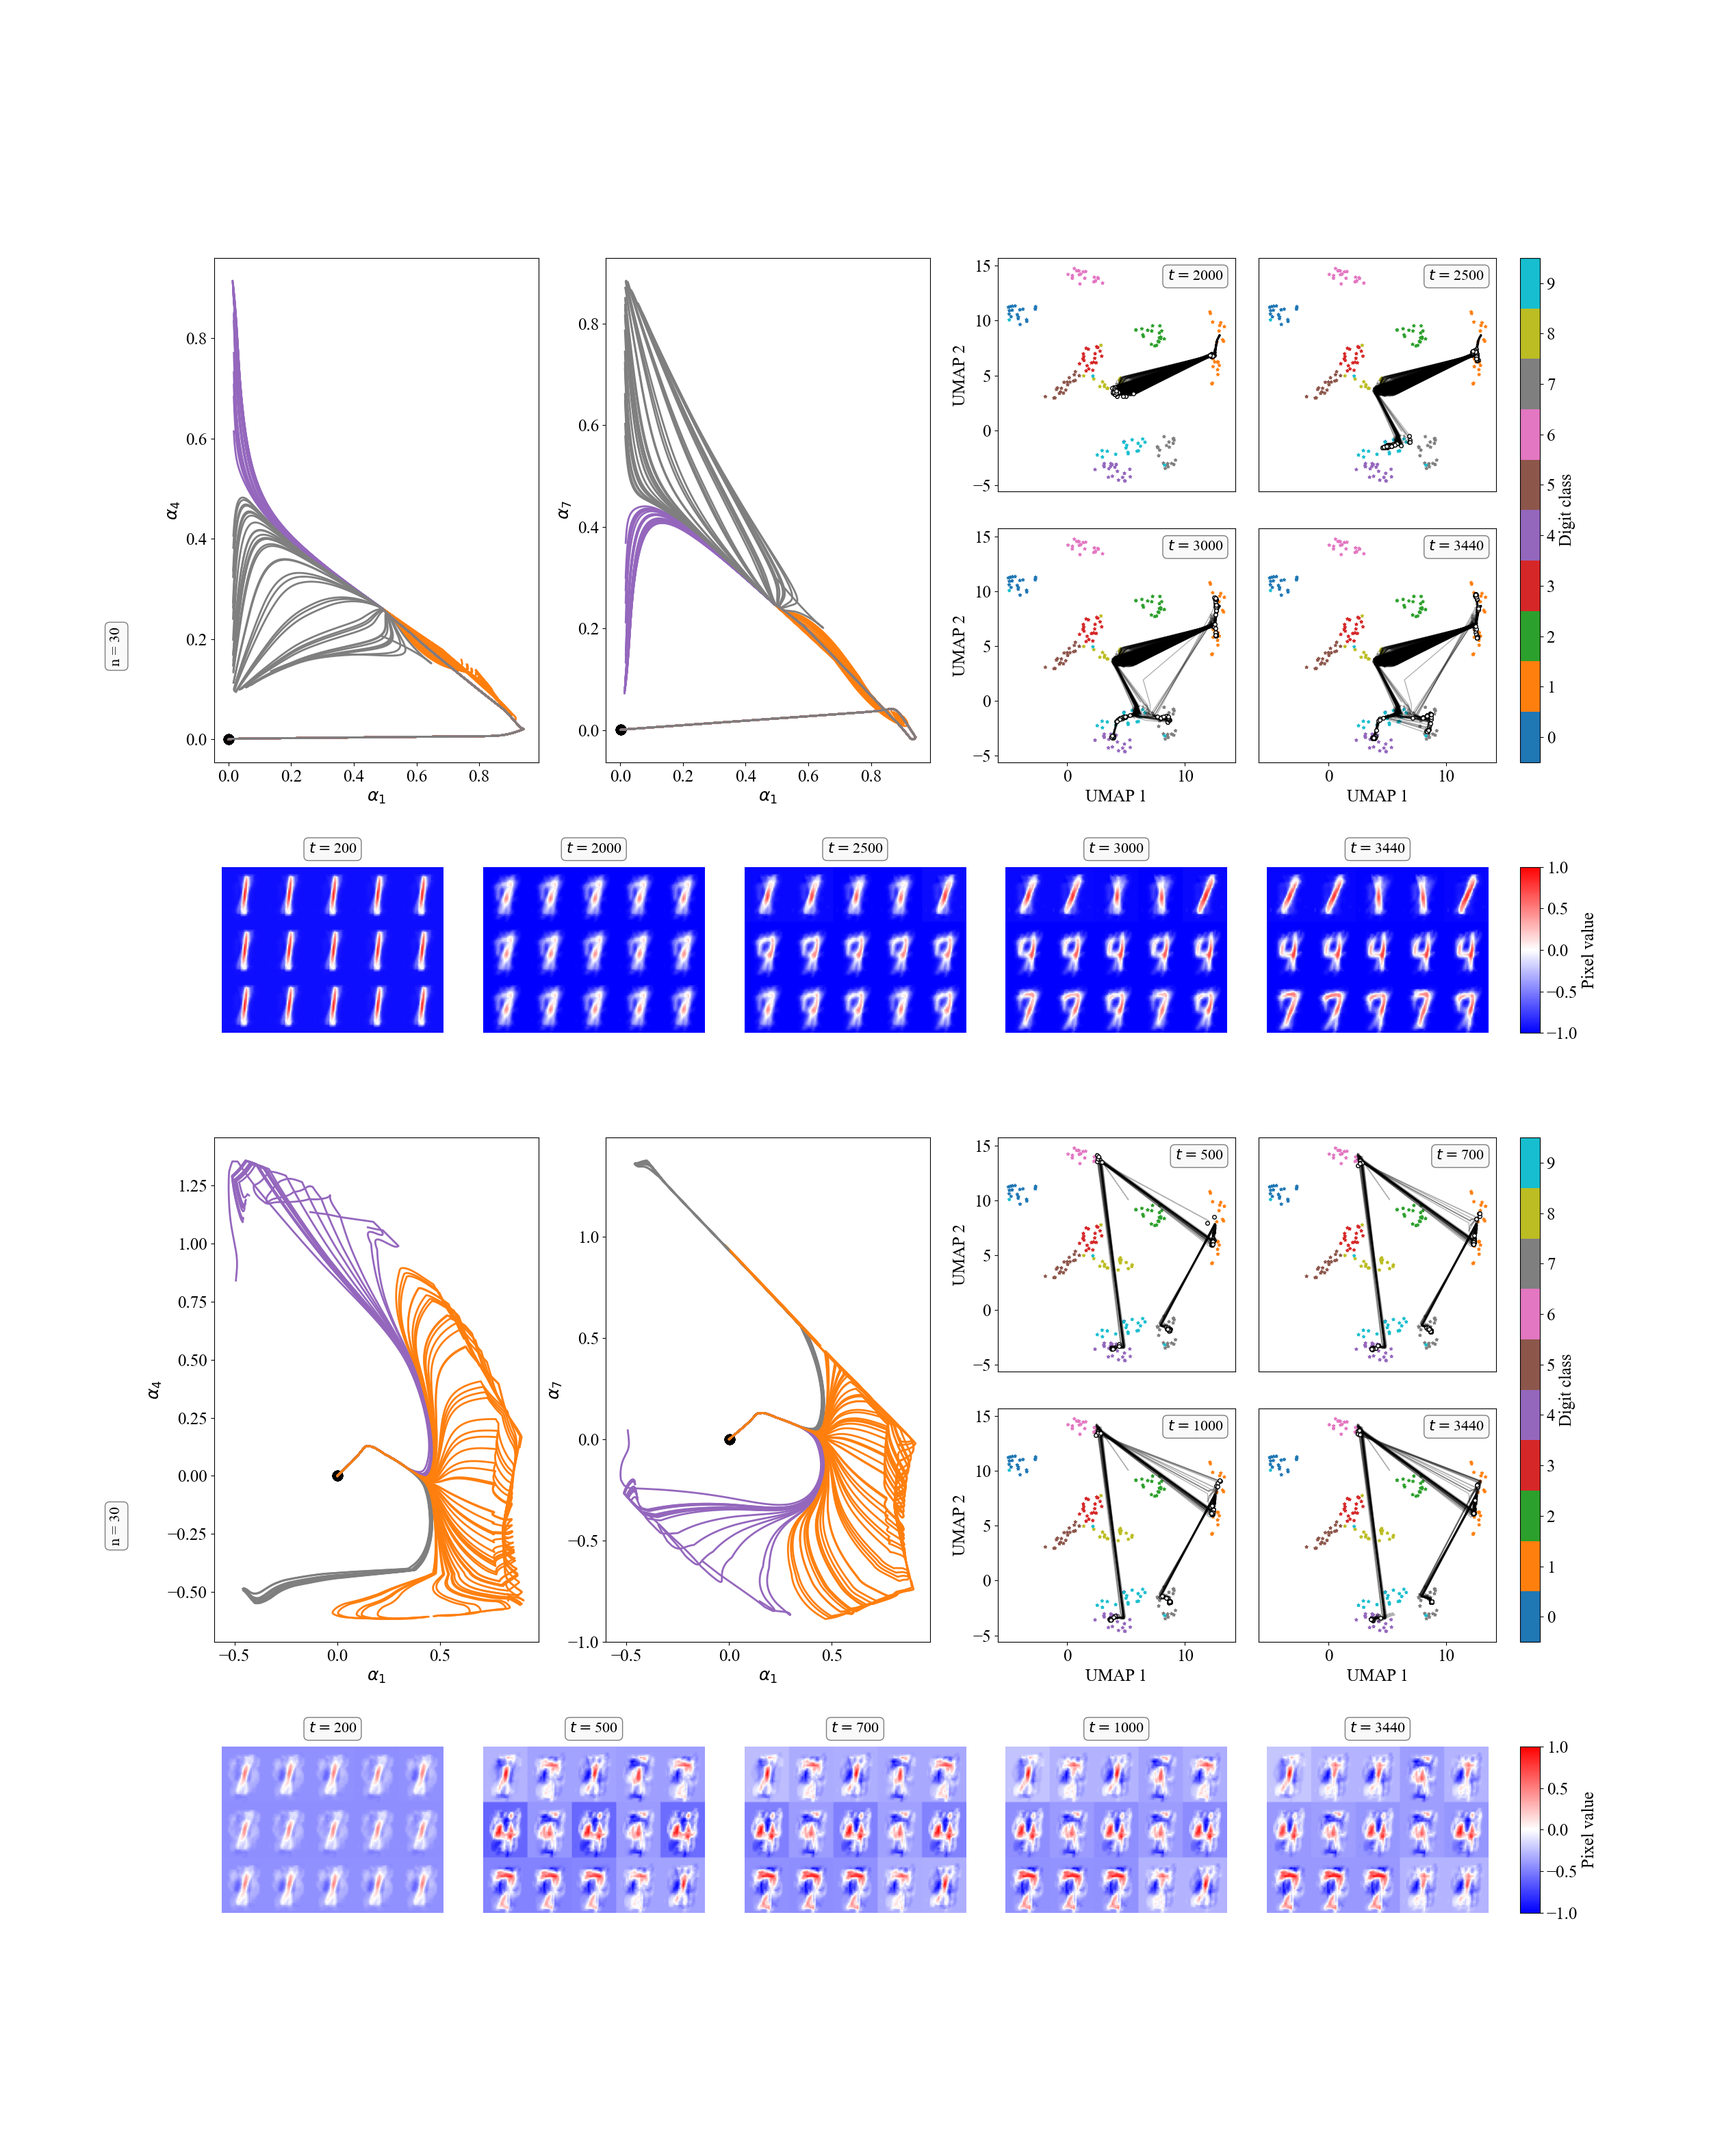
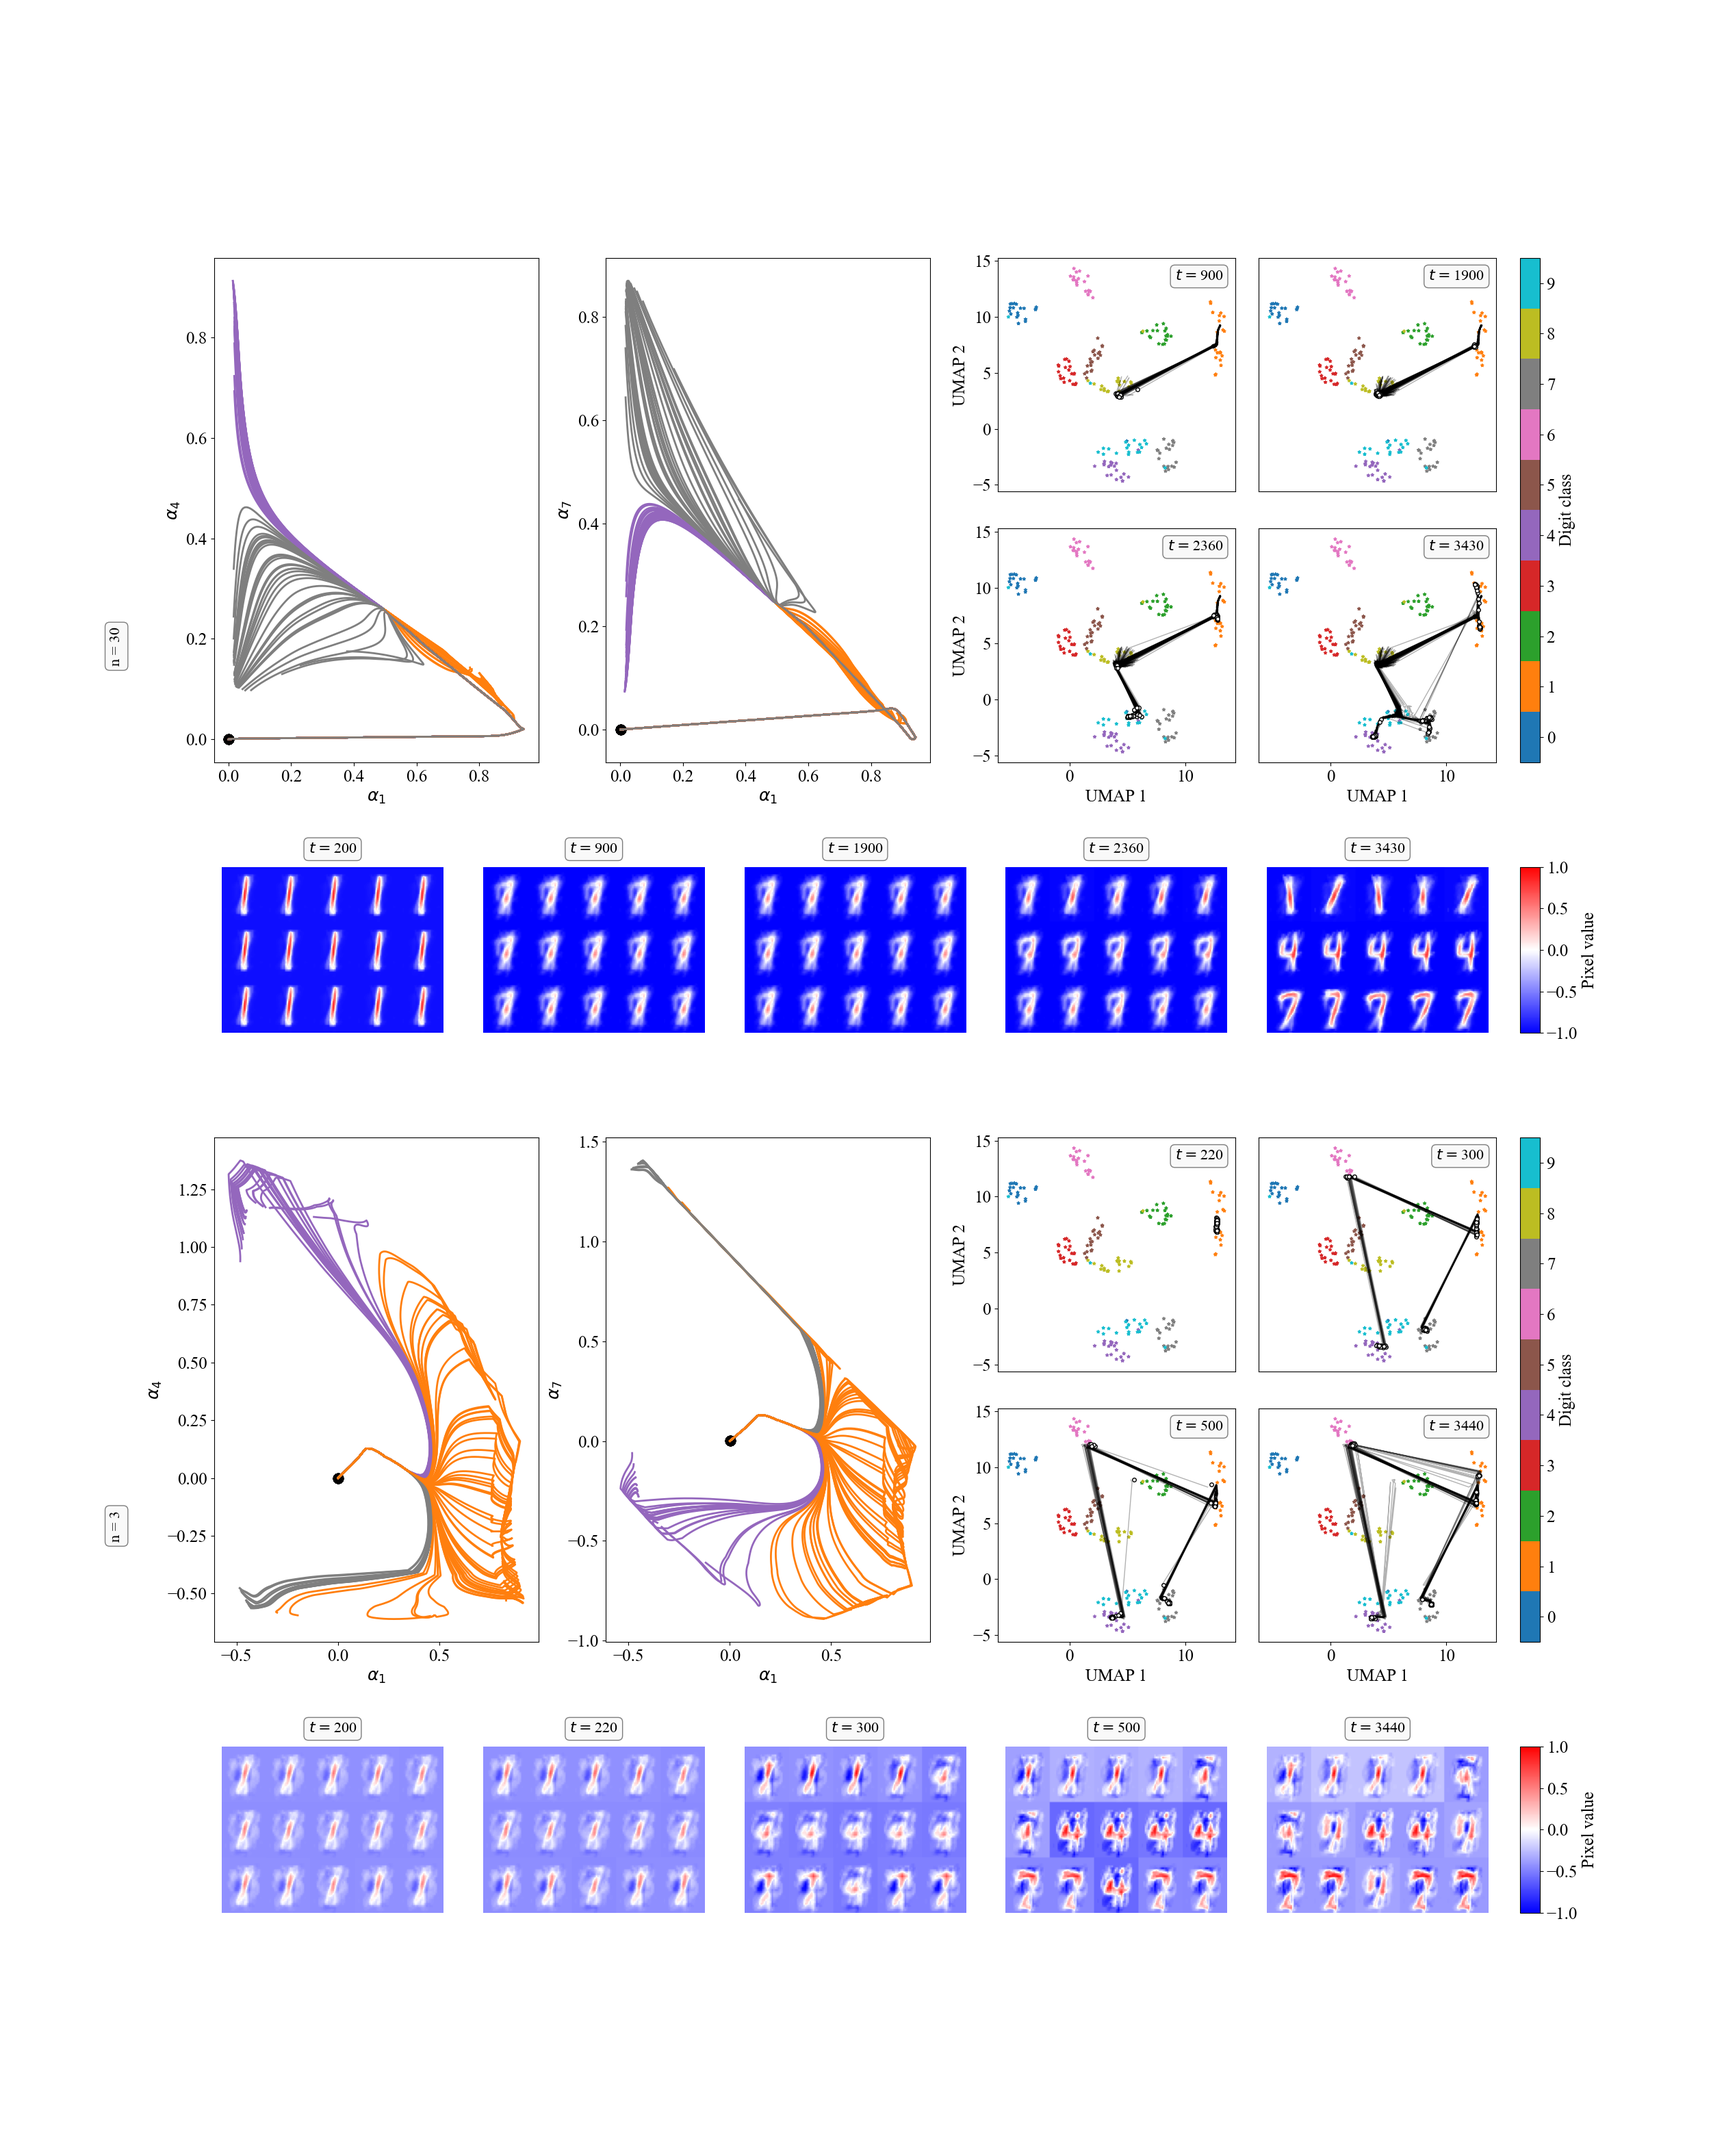
Slight improvement, should be done for figure 2.

diff --git a/paper - figure 2/Figure_2_plot.py b/paper - figure 2/Figure_2_plot.py
@@ -173,7 +173,7 @@ ffffffgggggghhhhhhiiiiiijjjjjjX
 ffffffgggggghhhhhhiiiiiijjjjjjX
 """)
 
-panel_top = Figure_2_panel(30)
+panel_top = Figure_2_panel(30, t_s=[20, 90, 190, 236, 343])
 
 ax_mem_1 = np.asarray([axs['a'], axs['b'], axs['c'], axs['d'], axs['e']])
 panel_top.memory_sample_plot(ax_mem_1)
@@ -205,7 +205,7 @@ ax_split_1[0].text(-0.3, 0.23, r"n = 30", transform=ax_split_1[0].transAxes, fon
 
 ########################################
 
-panel_bot = Figure_2_panel(3, t_s=[20, 50, 70, 100, 344])
+panel_bot = Figure_2_panel(3, t_s=[20, 22, 30, 50, 344])
 
 ax_mem_2 = np.asarray([axs['f'], axs['g'], axs['h'], axs['i'], axs['j']])
 panel_bot.memory_sample_plot(ax_mem_2)
@@ -229,9 +229,7 @@ cb_mem_2.set_label("Pixel value")
 
 
 # The n text
-ax_split_2[0].text(-0.3, 0.23, r"n = 30", transform=ax_split_2[0].transAxes, fontsize=16, rotation=90, verticalalignment='center', ha='center', bbox=panel_top.props)
-
-
+ax_split_2[0].text(-0.3, 0.23, r"n = 3", transform=ax_split_2[0].transAxes, fontsize=16, rotation=90, verticalalignment='center', ha='center', bbox=panel_top.props)
 
 
 plt.subplots_adjust(wspace=1.2, hspace=1.2)
